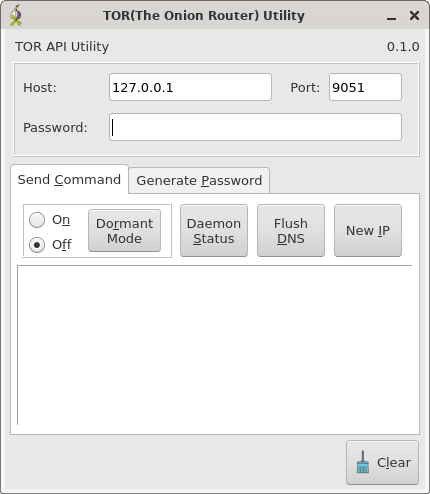
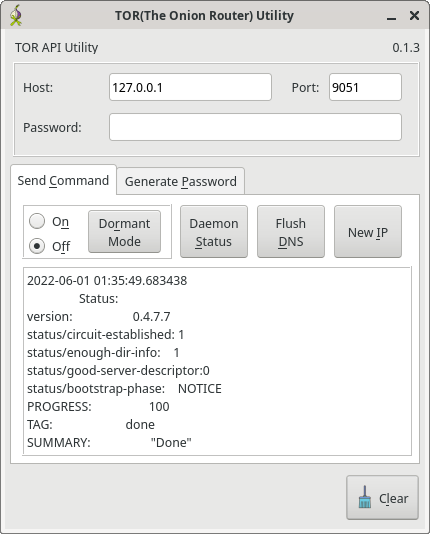
updated screenshots

diff --git a/README.md b/README.md
@@ -11,7 +11,7 @@ features in Qt.
 
 GUI
 ---
-![screenshot-tab1](screenshot1.png) ![screenshot-tab2](screenshot2.png)
+![screenshot-tab1-1](screenshot1.png) ![screenshot-tab1-2](screenshot2.png) ![screenshot-tab2](screenshot3.png)
 
 Command Line
 ------------
